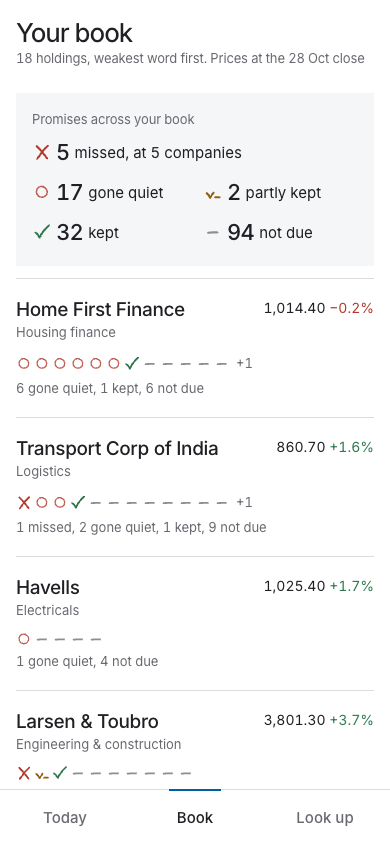
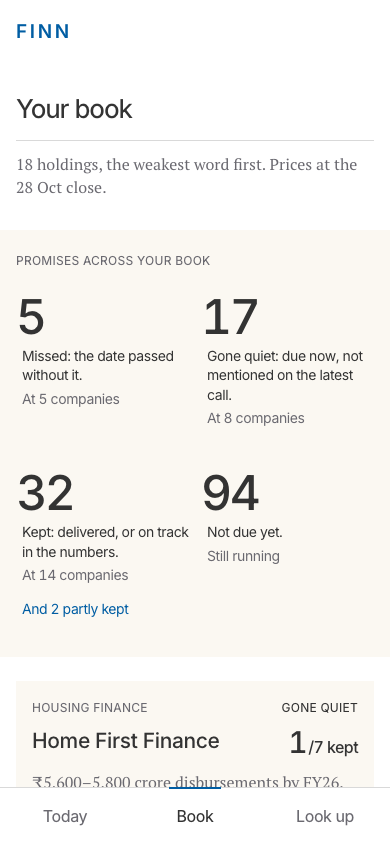
Update README screenshots and checklist

diff --git a/docs/PROGRESS.md b/docs/PROGRESS.md
@@ -121,3 +121,9 @@ Next: 29 Oct (iteration 1 of the redesign after the reference, ends 08:10 IST; n
 - design/PLAN.md written: what makes the reference look the way it does at 390 px, 13 decisions, a blueprint per screen, an ordered checklist
 - Today's sieve: on the first open of a session the count falls from the filing count to what needs you (once per session; reduced motion shows the number)
 - First cut of the whole system, deployed 29 Oct ~05:00 IST: the reference tokens and mobile type (Inter 450, tight tracking; PT Serif for the sentence under a title), FINN wordmark masthead that hides on scroll down, warm #FBF8F2 panel cards with the last 30 sessions drawn as the card's picture, outcome figures (72/48 px with a smaller unit), outcomes-grid tallies on Book and Company, accordions with a turning plus, opacity-only stagger fade. Every tick/cross/ring mark is gone (status is a caps word; MISSED alone in #9E2B25), no green or red numbers, Your lines checkboxes are switches. Today shows at most five cards; the rest join 'Worth a look'. Flows checked at 390x844: windows, Your lines, Book filter, company and Back (scroll 1100 restored), Look up by name. Tests 10/10
+- Critic round 1 (fresh sub-agent, six side-by-side pairs against the reference): Today 7, card 7, Book 6, Book cards 7, Company 8, Look up 6. Fixed: Book tally is four balanced items (partly kept rides under kept as a link, still filters); results and people cards drop the volume ticks (unusual days keep them); 24 px between cards; dateline date in ink 500; Look up drops the holdings chips (Book has them). Not changed: MISSED keeps its colour (the spec's one exception); the 'purple' chips are #005DA3
+- Company promises as outcomes: the figure goes big only when it has a unit or currency ('15%', '30–40 bps', '₹1,000', '50–55 days', '240–245 million tons') or counts things ('6 branches'); otherwise the year it's due ('FY26'); otherwise none, with a spacer so rows stay aligned. Checked all 194 graded promises on 22 company pages: no bare numbers from dates or names ('August 25', 'plant 2', 'mid-20s'), no sideways scroll
+- Display: '12 to 15 percent' -> '12–15%', '2.6%-2.7%' -> '2.6–2.7%', '16 per cent' -> '16%'; 'from 12% to 18%' left alone. 66 of 1,110 model strings change, quotes never. Tests 11/11
+- Today: no one kind takes more than three of the five cards (Week: three results, then the Syngene and Home First management changes)
+- The design reference is no longer named in tracked files or code comments (spec rule); local reference shots renamed ref-*. Commits from early this session name it in their messages; history is not rewritten here (the spec leaves that to the user; listed in NEEDS_FROM_USER)
+- DESIGN.md and design/inspiration.md rewritten for the new system; DECISIONS design paragraph, walkthrough beats 1-4, README and covering note follow it. README screenshots retaken from the live link 29 Oct ~06:40 IST

diff --git a/design/PLAN.md b/design/PLAN.md
@@ -36,9 +36,9 @@ Written 29 Oct, 04:15 IST, after reading the reference's source in `design-refer
 
 ## Checklist (in order)
 - [x] 1. Tokens, type, header, section head, buttons, labels, accordion, motion in `styles.css` + `ui.tsx`; glyph marks removed from `ui.tsx` and every caller; green/red removed
-- [ ] 2. Today: hero outcome, five-card cap, panel cards with the chart image and Read more accordion, folds as accordions. Side-by-side check with ref-home
-- [ ] 3. Book: section head, outcomes tally, case-study cards with the weakest-promise sentence. Side-by-side with ref-out
-- [ ] 4. Company: page header, outcomes tally, promise grid, accordions. Side-by-side with ref-out
-- [ ] 5. Look up banner and pills; Your lines sheet switches; live-build and error states
-- [ ] 6. Critic pass on all four pairs (8/10 bar), detect.mjs no P0/P1, flows on the live link (windows, Your lines, Book filter, company and Back scroll, Look up by name)
+- [x] 2. Today: hero outcome, five-card cap, panel cards with the chart image and Read more accordion, folds as accordions. Side-by-side check with ref-home
+- [x] 3. Book: section head, outcomes tally, case-study cards with the weakest-promise sentence. Side-by-side with ref-out
+- [x] 4. Company: page header, outcomes tally, promise grid, accordions. Side-by-side with ref-out
+- [x] 5. Look up banner and pills; Your lines sheet switches; live-build and error states
+- [ ] 6. Critic pass (round 1 done 29 Oct ~05:50: Today 7, card 7, Book 6, Book cards 7, Company 8, Look up 6; fixes shipped; round 2 pending) on all four pairs (8/10 bar), detect.mjs no P0/P1, flows on the live link (windows, Your lines, Book filter, company and Back scroll, Look up by name)
 - [ ] 7. Writing pass on every card; DESIGN.md and design/inspiration.md rewritten to this system; README shots retaken; PROGRESS and DECISIONS updated

diff --git a/docs/NEEDS_FROM_USER.md b/docs/NEEDS_FROM_USER.md
@@ -4,6 +4,7 @@
 - GitHub repo published (public): https://github.com/vedant-22/finn. Pushing new commits to `origin main` is fine.
 
 ## Optional
+- **Commit messages naming the design reference (29 Oct).** Two commits from early on 29 Oct name the reference in their messages: `2a3cba9` and `574d304`. The spec says not to rewrite history from here, so they are left for you to clean.
 - **Stray Vercel project 'web' (optional cleanup).** A deploy run from the wrong folder on 28 Oct created an empty-ish project named `web` next to `finn-ledger`. It is behind Vercel login and harmless; delete it in the Vercel dashboard if you like. The live app is `finn-ledger`.
 - **Gemini paid tier (optional).** The key in `.env` is on the free tier. `gemini-3.1-pro-preview` and `gemini-4-argon` return 429 (zero quota), so the "smart" step uses `gemini-3.5-flash`. If you enable billing, set `FINN_SMART_MODEL=gemini-3.1-pro-preview` in Vercel to try the stronger model on grading only. Free-tier daily limits are shared by everyone who opens the live link, so heavy use of live research on new tickers may hit 429s; cached companies are unaffected.
 - **Email submission.** Send the covering note (docs/COVERING_NOTE.md) to assessment@enam.com with subject "ENAM - IIT screening - 2027", plus the AI build history export of this session.
